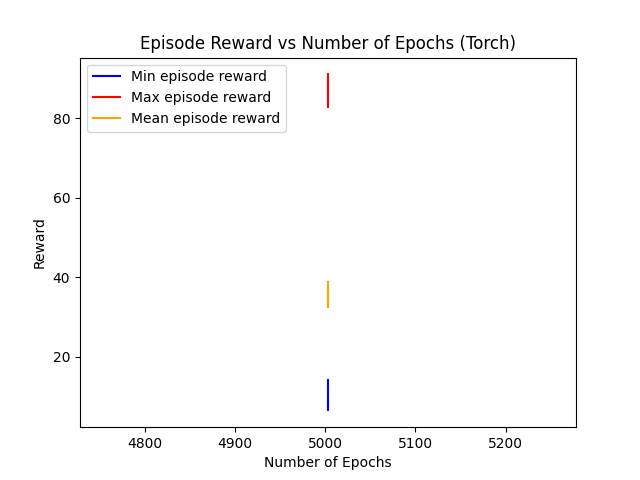
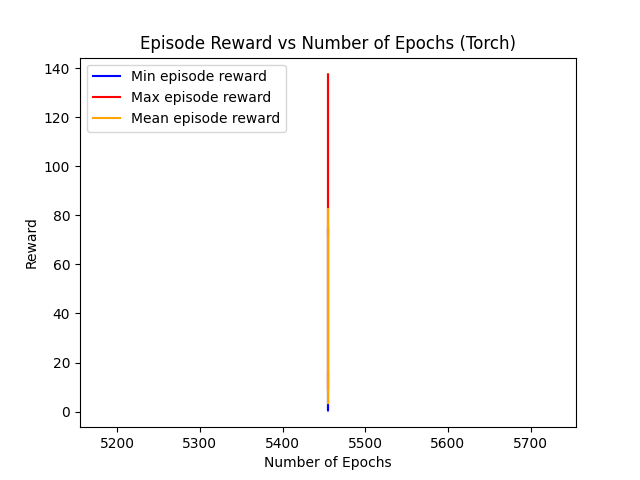
developed and tested starting exo training from cp

diff --git a/Exo_agent/RLlib_MASS.py b/Exo_agent/RLlib_MASS.py
@@ -55,7 +55,7 @@ class Exo_Trainer():
         # register custom env and NN
         ModelCatalog.register_custom_model("Actor_NN", Actor_NN)
         register_env("MASS_env", MASS_env)
-        self.metafile_path = "/home/medicalrobotics/Anton/MASS_EXO/data/metadata_bws_crip_knee_hip.txt"
+        self.metafile_path = "/home/medicalrobotics/Anton/MASS_EXO/data/metadata_bws_crip_knee_hip_EXO.txt"
         self.sim_NN_path = "/home/medicalrobotics/Anton/MASS_EXO/nn/max.pt"
         self.muscle_NN_path = "/home/medicalrobotics/Anton/MASS_EXO/nn/max_muscle.pt"
         self.restore = restore_agent
@@ -66,6 +66,7 @@ class Exo_Trainer():
         self.mean_rewards = []
         self.epochs = 0
         self.checkpoint_path = ""
+        self.plot_start = 1
 
         if mode == 'tune':
             # tunes hyperparameters - not rigorously tested, but should only be used
@@ -80,6 +81,8 @@ class Exo_Trainer():
 
                 self.checkpoint_path = checkpoint_path
                 self.epochs = int(checkpoint_number)
+                self.plot_start = self.epochs + 1
+
                 
             self.config = {
                 "env": MASS_env,
@@ -269,7 +272,7 @@ class Exo_Trainer():
         self.max_rewards.append(max)
         self.mean_rewards.append(mean)
 
-        epoch_space = np.linspace(self.epochs, self.epochs, len(self.min_rewards))
+        epoch_space = np.linspace(self.plot_start, self.epochs, len(self.min_rewards))
 
         
 
@@ -286,7 +289,8 @@ class Exo_Trainer():
 
 
 def debug():
-    ben = Exo_Trainer('train', restore_agent=True)
+    ben = Exo_Trainer('train')
+    # ben = Exo_Trainer('train', restore_agent=True)
     # ben.Tune_Params()
     ben.Train_Exo(10000)
     # ben.Restore_Agent("/home/medicalrobotics/Anton/MASS_EXO/Exo_agent/policies/checkpoint_005000")
